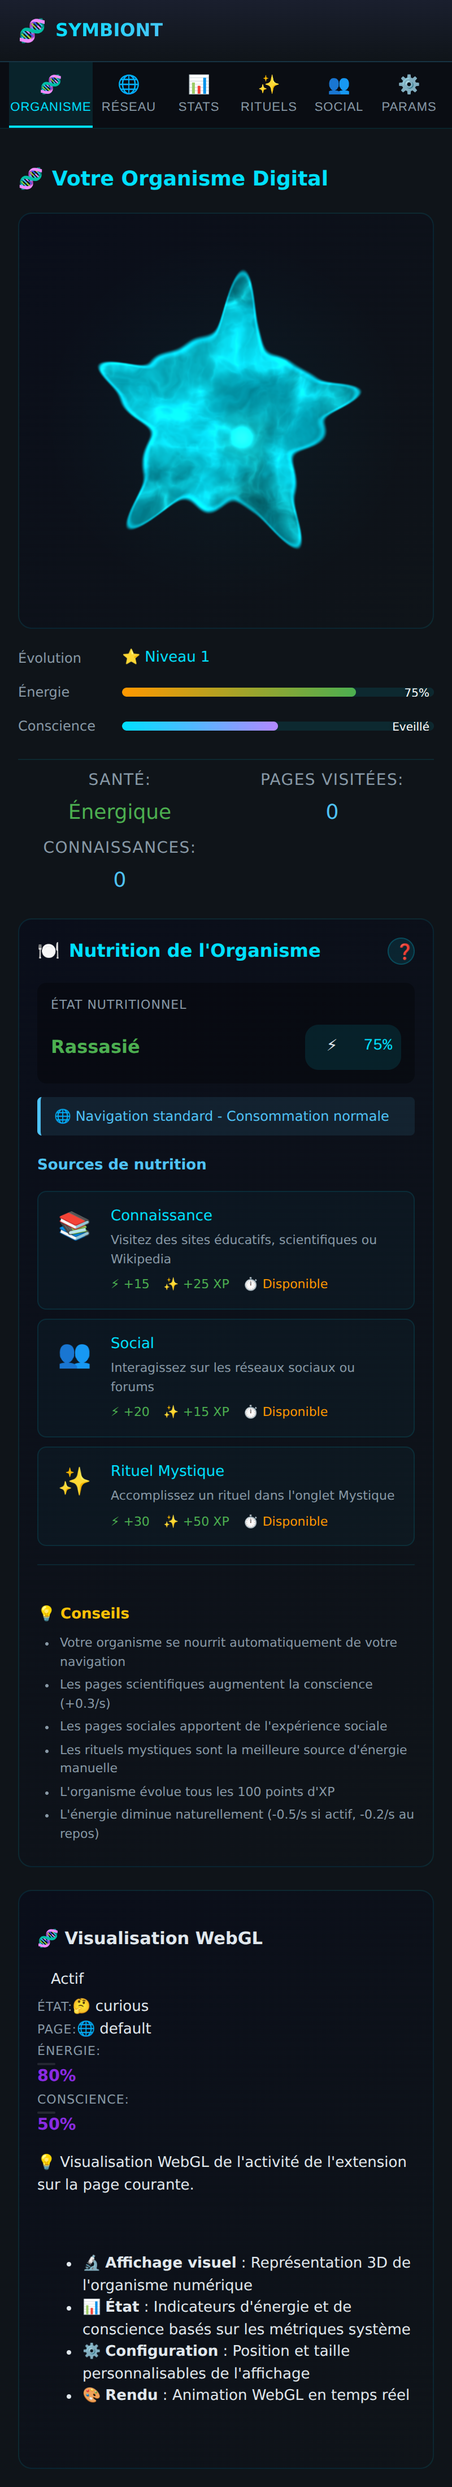
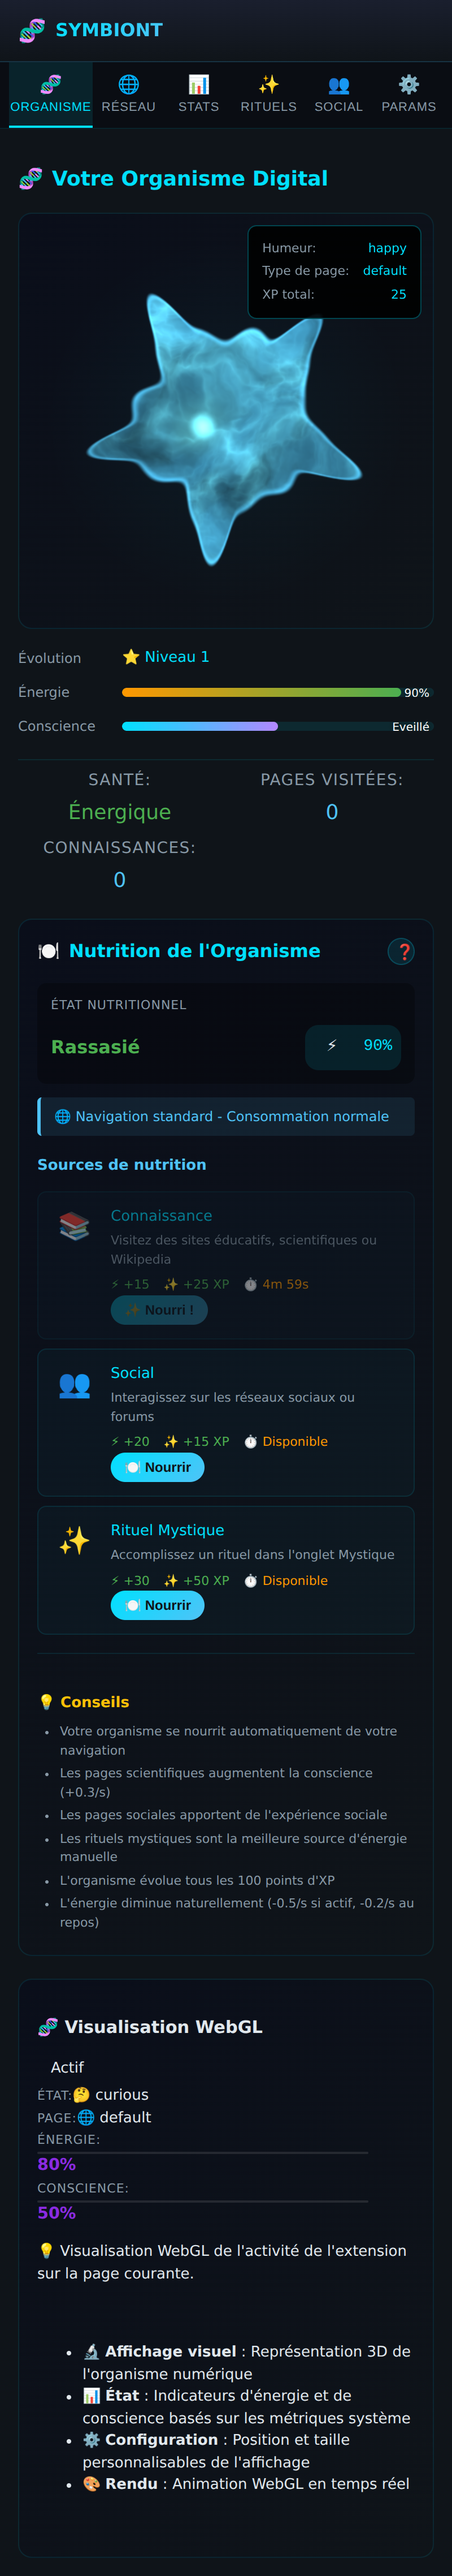
docs(wiki): reflect the now-interactive nutrition panel
Update the Organisme page screenshot (feed buttons + live cooldown) and
its description; mark nutrition and WebGL controls as verified in the
feature table.

Claude-Session: https://claude.ai/code/session_01NTBzRu154G5yvQajkq9dM1

diff --git a/docs/wiki/Organisme.md b/docs/wiki/Organisme.md
@@ -14,12 +14,16 @@ sa silhouette, sa couleur et sa pulsation reflètent son ADN, ses traits, son
 Connaissances.
 
 ### Nutrition de l'Organisme
-La créature se nourrit de votre navigation. Le panneau **Nutrition** montre :
-- l'**état nutritionnel** (ici « Rassasié », 75 %) et le mode de consommation,
-- les **sources de nutrition** avec leurs gains — Connaissance (+15 énergie /
-  +25 XP), Social (+20 / +15 XP), Rituel Mystique (+30 / +50 XP),
-- des **conseils** expliquant comment l'organisme évolue (pages scientifiques →
-  conscience, pages sociales → expérience sociale, rituels → énergie, etc.).
+La créature se nourrit de votre navigation **et** peut être nourrie manuellement.
+Le panneau **Nutrition** propose :
+- l'**état nutritionnel** (ici « Rassasié », 90 %) et le mode de consommation,
+- les **sources de nutrition** avec un **bouton « Nourrir »** fonctionnel :
+  Connaissance (+15 énergie / +25 XP), Social (+20 / +15 XP), Rituel Mystique
+  (+30 / +50 XP). Nourrir applique le gain à l'organisme (l'énergie monte, la
+  faim se réinitialise, l'humeur passe à « heureux »), déclenche le **cooldown**
+  de la source (compte à rebours en direct, ici « 4m 59s » après avoir nourri
+  Connaissance) et affiche un retour « ✨ Nourri ! »,
+- des **conseils** expliquant comment l'organisme évolue.
 
 ### Visualisation WebGL (contrôles)
 En bas, l'état de la visualisation : activation, humeur courante, type de page,

diff --git a/docs/wiki/Fonctionnalites-verifiees.md b/docs/wiki/Fonctionnalites-verifiees.md
@@ -9,8 +9,8 @@ de façon automatisée (navigation + interactions).
 | Domaine | Fonctionnalité | Statut | Preuve |
 |---|---|---|---|
 | Organisme | Rendu fractal WebGL temps réel | ✅ vérifié | [page](Organisme) + tests moteur |
-| Organisme | Nutrition (sources, gains, conseils) | ✅ affiché | [page](Organisme) |
-| Organisme | Contrôles WebGL | ✅ affiché | [page](Organisme) |
+| Organisme | Nutrition — nourrissage manuel + cooldown live | ✅ vérifié | [page](Organisme) |
+| Organisme | Contrôles WebGL (interrupteur persisté) | ✅ vérifié | [page](Organisme) |
 | Réseau | Graphe P2P + nœud « Moi » | ✅ affiché | [page](Reseau) |
 | Réseau | Sous-onglets Pairs / Messages / Stats | ✅ affichés | [page](Reseau) |
 | Réseau | Connexions P2P live (partage/sync) | 🧪 à valider | nécessite 2 instances connectées |
